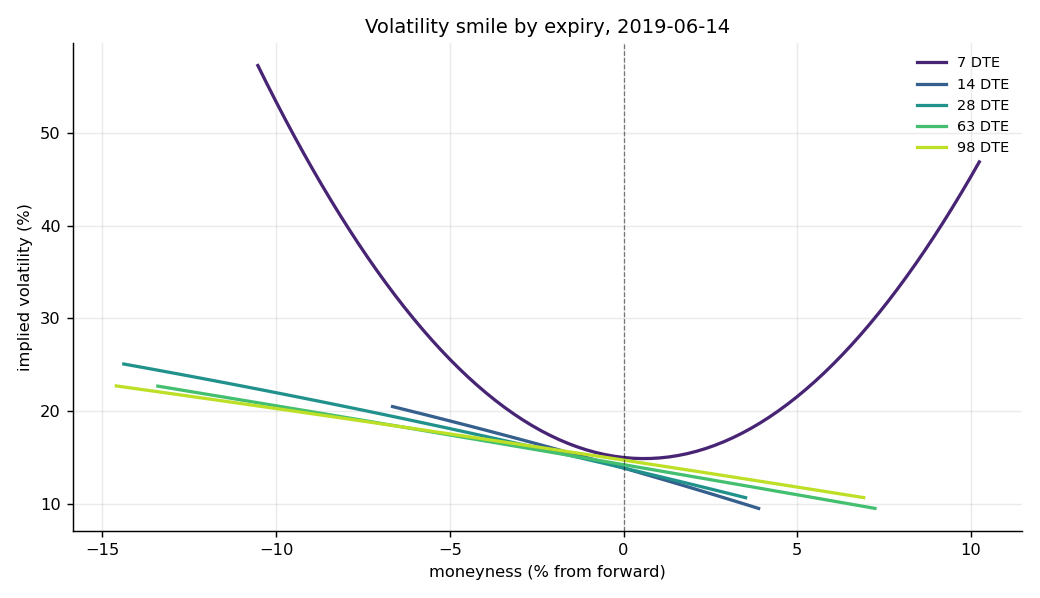
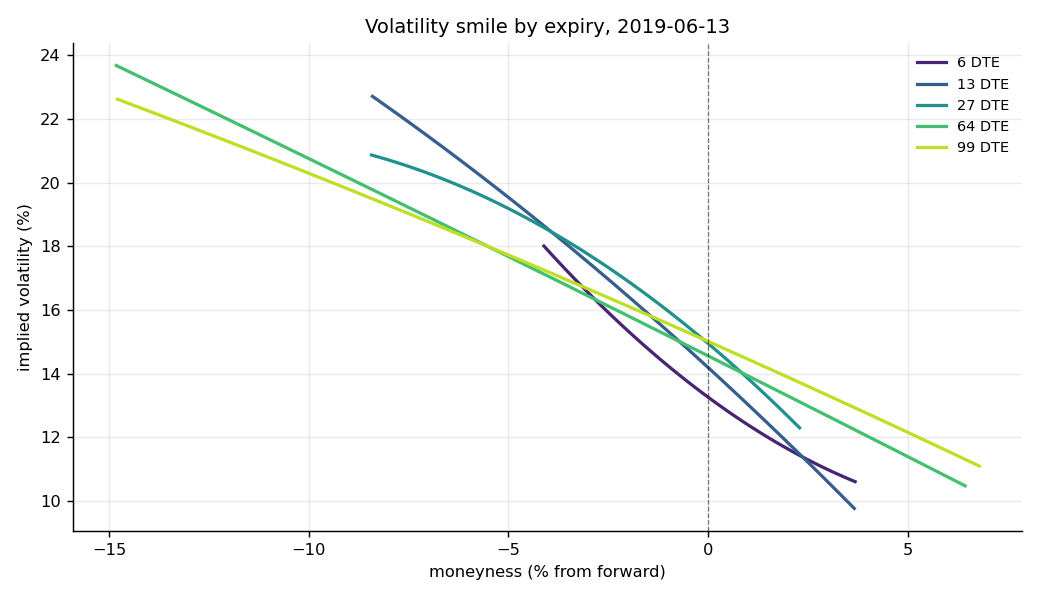
Walkforward and deephedging v1

diff --git a/src/Walkforward.py b/src/Walkforward.py
@@ -1,0 +1,299 @@
+from __future__ import annotations
+
+import itertools
+from dataclasses import dataclass
+from pathlib import Path
+
+import numpy as np
+import pandas as pd
+
+import backtest as bt
+
+TRAIN_DAYS = 756
+PURGE_DAYS = 30
+TEST_DAYS = 126
+STEP_DAYS = 126
+OBJECTIVE = "sharpe"
+
+
+@dataclass(frozen=True)
+class Fold:
+    idx: int
+    train_start: pd.Timestamp
+    train_end: pd.Timestamp
+    test_start: pd.Timestamp
+    test_end: pd.Timestamp
+
+    def as_dict(self):
+        return {
+            "fold": self.idx,
+            "train_start": self.train_start.date(),
+            "train_end": self.train_end.date(),
+            "test_start": self.test_start.date(),
+            "test_end": self.test_end.date(),
+        }
+
+
+def make_folds(days, train=TRAIN_DAYS, purge=PURGE_DAYS,
+               test=TEST_DAYS, step=STEP_DAYS) -> list[Fold]:
+    days = pd.DatetimeIndex(sorted(days))
+    folds, i, n = [], 0, 0
+    while True:
+        tr_lo = n
+        tr_hi = tr_lo + train
+        te_lo = tr_hi + purge
+        te_hi = te_lo + test
+        if te_hi > len(days):
+            break
+        folds.append(Fold(i, days[tr_lo], days[tr_hi - 1], days[te_lo], days[te_hi - 1]))
+        i += 1
+        n += step
+    return folds
+
+
+def expand_grid(grid: dict | None) -> list[dict]:
+    if not grid:
+        return [{}]
+    keys = list(grid)
+    return [dict(zip(keys, vals)) for vals in itertools.product(*(grid[k] for k in keys))]
+
+
+def evaluate(data_dir, loaded, start, end, cfg) -> dict:
+    trades, daily = bt.run(data_dir, start=start, end=end, loaded=loaded, **cfg)
+    if daily.empty:
+        return {"days": 0, "sharpe": np.nan, "total_pnl": np.nan,
+                "trades": 0, "daily": daily}
+    m = bt.metrics(daily, trades)
+    m["daily"] = daily
+    m["trades_df"] = trades
+    return m
+
+
+def _score(m, objective):
+    v = m.get(objective)
+    return -np.inf if v is None or not np.isfinite(v) else v
+
+
+def usable_days(loaded, start=None, end=None):
+    points, _, spot, sig = loaded
+    days = sorted(set(points["date"]) & set(spot.index) & set(sig.index))
+    if start:
+        days = [d for d in days if d >= pd.Timestamp(start)]
+    if end:
+        days = [d for d in days if d <= pd.Timestamp(end)]
+    return days
+
+
+def walk_forward(data_dir, base_cfg=None, grid=None, objective=OBJECTIVE,
+                 train=TRAIN_DAYS, purge=PURGE_DAYS, test=TEST_DAYS,
+                 step=STEP_DAYS, loaded=None, verbose=True,
+                 start=None, end=None):
+    base_cfg = dict(base_cfg or {})
+    loaded = loaded if loaded is not None else bt.load(data_dir)
+
+    days = usable_days(loaded, start, end)
+    folds = make_folds(days, train, purge, test, step)
+    if not folds:
+        raise RuntimeError(
+            f"not enough data for a fold: {len(days)} days, "
+            f"need at least {train + purge + test}")
+
+    combos = expand_grid(grid)
+    rows, oof = [], []
+
+    for f in folds:
+        best, best_cfg, best_score = None, dict(base_cfg), -np.inf
+        for extra in combos:
+            cfg = {**base_cfg, **extra}
+            m = evaluate(data_dir, loaded, f.train_start, f.train_end, cfg)
+            s = _score(m, objective)
+            if s > best_score:
+                best, best_cfg, best_score = m, cfg, s
+
+        te = evaluate(data_dir, loaded, f.test_start, f.test_end, best_cfg)
+
+        row = {
+            **f.as_dict(),
+            "train_sharpe": best.get("sharpe") if best else None,
+            "train_pnl": best.get("total_pnl") if best else None,
+            "train_trades": best.get("trades", 0) if best else 0,
+            "test_sharpe": te.get("sharpe"),
+            "test_pnl": te.get("total_pnl"),
+            "test_trades": te.get("trades", 0),
+            "test_max_dd": te.get("max_drawdown"),
+        }
+        for k in (grid or {}):
+            row[f"chosen_{k}"] = best_cfg.get(k)
+        rows.append(row)
+
+        d = te.get("daily")
+        if d is not None and not d.empty:
+            d = d.copy()
+            d["fold"] = f.idx
+            oof.append(d)
+
+        if verbose:
+            chosen = "  ".join(f"{k}={best_cfg.get(k)}" for k in (grid or {}))
+            print(f"  fold {f.idx:>2}  test {f.test_start.date()} to {f.test_end.date()}  "
+                  f"sharpe {row['test_sharpe'] if row['test_sharpe'] is not None else float('nan'):>6.3f}  "
+                  f"pnl {row['test_pnl'] if row['test_pnl'] is not None else float('nan'):>+9.0f}  "
+                  f"trades {row['test_trades']:>3}  {chosen}")
+
+    folds_df = pd.DataFrame(rows)
+    oof_daily = (pd.concat(oof, ignore_index=True).sort_values("date")
+                 if oof else pd.DataFrame())
+    return folds_df, oof_daily
+
+
+def summarise(folds_df, oof_daily, capital=bt.CAPITAL, grid=None) -> dict:
+    s = folds_df["test_sharpe"].dropna()
+    p = folds_df["test_pnl"].dropna()
+
+    out = {
+        "folds": len(folds_df),
+        "folds_scored": int(len(s)),
+        "test_sharpe_mean": round(float(s.mean()), 3) if len(s) else None,
+        "test_sharpe_median": round(float(s.median()), 3) if len(s) else None,
+        "test_sharpe_std": round(float(s.std()), 3) if len(s) > 1 else None,
+        "folds_positive": round(float((p > 0).mean()), 3) if len(p) else None,
+        "total_test_pnl": round(float(p.sum()), 2) if len(p) else None,
+        "worst_fold_pnl": round(float(p.min()), 2) if len(p) else None,
+        "best_fold_pnl": round(float(p.max()), 2) if len(p) else None,
+        "total_test_trades": int(folds_df["test_trades"].sum()),
+    }
+
+    if not oof_daily.empty:
+        r = oof_daily["pnl"] / capital
+        eq = capital + oof_daily["pnl"].cumsum()
+        dd = ((eq - eq.cummax()) / eq.cummax()).min()
+        down = r[r < 0].std()
+        out["oof"] = {
+            "days": len(oof_daily),
+            "total_pnl": round(float(oof_daily["pnl"].sum()), 2),
+            "sharpe": round(float(r.mean() / r.std() * np.sqrt(252)), 3) if r.std() else None,
+            "sortino": round(float(r.mean() / down * np.sqrt(252)), 3) if down else None,
+            "max_drawdown": round(float(dd), 4),
+            "pnl_from_options": round(float(oof_daily["pnl_option"].sum()), 2),
+            "pnl_from_hedging": round(float(oof_daily["pnl_hedge"].sum()), 2),
+            "total_costs": round(float(oof_daily["cost"].sum()), 2),
+        }
+
+    for k in (grid or {}):
+        col = f"chosen_{k}"
+        if col in folds_df:
+            vc = folds_df[col].value_counts()
+            out.setdefault("parameter_stability", {})[k] = {
+                "values": {str(i): int(v) for i, v in vc.items()},
+                "modal_share": round(float(vc.iloc[0] / vc.sum()), 3),
+            }
+
+    return out
+
+
+HOLDOUT_START = "2024-01-01"
+
+
+def compare_agents(data_dir, agents: dict, grid=None, **kw):
+    loaded = bt.load(data_dir)
+    rows, detail = [], {}
+    for name, cfg in agents.items():
+        print(f"\n{name}")
+        folds_df, oof = walk_forward(data_dir, cfg, grid=grid, loaded=loaded, **kw)
+        s = summarise(folds_df, oof, grid=grid)
+        detail[name] = (folds_df, oof, s)
+        rows.append({
+            "agent": name,
+            "oof_sharpe": s.get("oof", {}).get("sharpe"),
+            "oof_pnl": s.get("oof", {}).get("total_pnl"),
+            "oof_max_dd": s.get("oof", {}).get("max_drawdown"),
+            "fold_sharpe_mean": s["test_sharpe_mean"],
+            "fold_sharpe_std": s["test_sharpe_std"],
+            "folds_positive": s["folds_positive"],
+            "trades": s["total_test_trades"],
+        })
+    return pd.DataFrame(rows), detail
+
+
+def parse_grid(spec: list[str] | None) -> dict | None:
+    if not spec:
+        return None
+    grid = {}
+    for item in spec:
+        key, _, vals = item.partition("=")
+        grid[key] = [float(v) if "." in v else int(v) for v in vals.split(",")]
+    return grid
+
+
+if __name__ == "__main__":
+    import argparse
+    import json
+
+    import agents as ag
+
+    ap = argparse.ArgumentParser()
+    ap.add_argument("--data", default="Data/data")
+    ap.add_argument("--agent", default="agent2_hedge",
+                    help="agent name from agents.AGENTS, or 'all'")
+    ap.add_argument("--grid", nargs="*", default=None,
+                    help="e.g. band_short=0.05,0.10,0.15")
+    ap.add_argument("--objective", default=OBJECTIVE)
+    ap.add_argument("--train", type=int, default=TRAIN_DAYS)
+    ap.add_argument("--purge", type=int, default=PURGE_DAYS)
+    ap.add_argument("--test", type=int, default=TEST_DAYS)
+    ap.add_argument("--step", type=int, default=STEP_DAYS)
+    ap.add_argument("--start", default=None)
+    ap.add_argument("--end", default="2023-12-31",
+                    help="last usable day; defaults to just before the holdout")
+    ap.add_argument("--allow-holdout", action="store_true",
+                    help="permit folds to test inside the reserved window")
+    ap.add_argument("--save", default=None)
+    a = ap.parse_args()
+
+    grid = parse_grid(a.grid)
+    if a.allow_holdout:
+        a.end = None
+        print("WARNING: folds may test inside the reserved holdout window")
+    pd.set_option("display.width", 220)
+    pd.set_option("display.max_columns", None)
+
+    print(f"loading {a.data} ...")
+
+    if a.agent == "all":
+        table, detail = compare_agents(
+            a.data, ag.AGENTS, grid=grid, objective=a.objective,
+            train=a.train, purge=a.purge, test=a.test, step=a.step,
+            start=a.start, end=a.end)
+        print("\nout-of-fold comparison")
+        print(table.to_string(index=False))
+        if a.save:
+            Path(a.save).parent.mkdir(parents=True, exist_ok=True)
+            table.to_csv(f"{a.save}_comparison.csv", index=False)
+            for name, (f, o, _) in detail.items():
+                f.to_csv(f"{a.save}_{name}_folds.csv", index=False)
+                if not o.empty:
+                    o.to_parquet(f"{a.save}_{name}_oof.parquet", index=False)
+    else:
+        cfg = ag.AGENTS.get(a.agent, {})
+        loaded = bt.load(a.data)
+        days = usable_days(loaded, a.start, a.end)
+        folds = make_folds(days, a.train, a.purge, a.test, a.step)
+        print(f"{len(days)} usable days ending {days[-1].date() if days else 'n/a'}, "
+              f"{len(folds)} folds "
+              f"(train {a.train}, purge {a.purge}, test {a.test}, step {a.step})\n")
+
+        folds_df, oof = walk_forward(a.data, cfg, grid=grid, objective=a.objective,
+                                     train=a.train, purge=a.purge, test=a.test,
+                                     step=a.step, loaded=loaded,
+                                     start=a.start, end=a.end)
+        print(f"\n{a.agent}")
+        print(json.dumps(summarise(folds_df, oof, grid=grid), indent=2, default=str))
+        print("\nfold detail")
+        cols = [c for c in folds_df.columns if c not in ("train_start", "train_end")]
+        print(folds_df[cols].to_string(index=False))
+
+        if a.save:
+            Path(a.save).parent.mkdir(parents=True, exist_ok=True)
+            folds_df.to_csv(f"{a.save}_folds.csv", index=False)
+            if not oof.empty:
+                oof.to_parquet(f"{a.save}_oof.parquet", index=False)
+            print(f"\nsaved {a.save}_folds.csv")

diff --git a/src/Test_DeepHedging.py b/src/Test_DeepHedging.py
@@ -1,0 +1,2 @@
+import pandas as pd
+import numpy as np 
